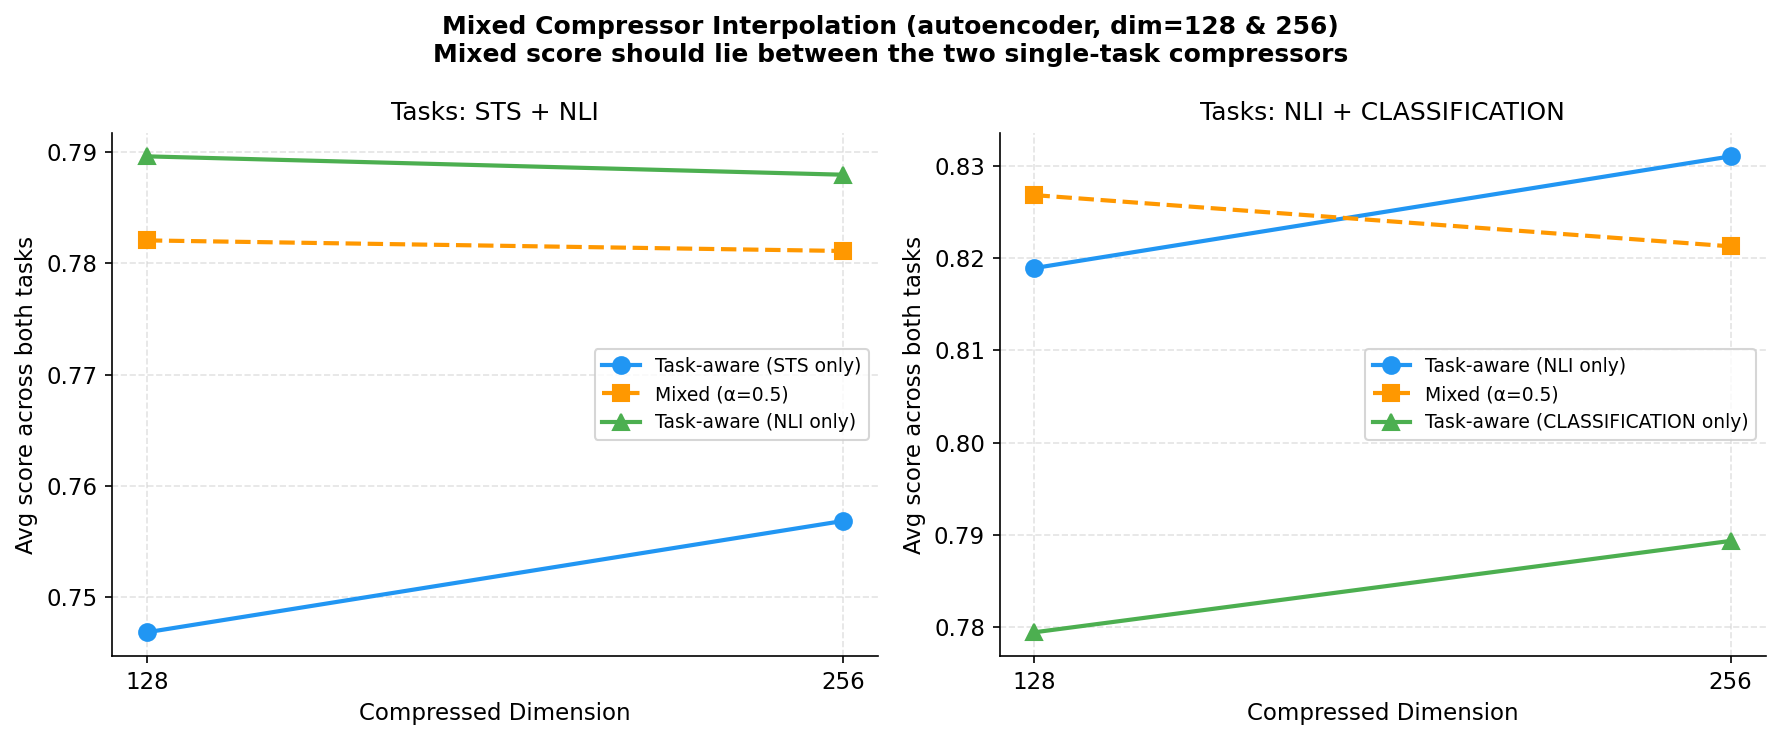
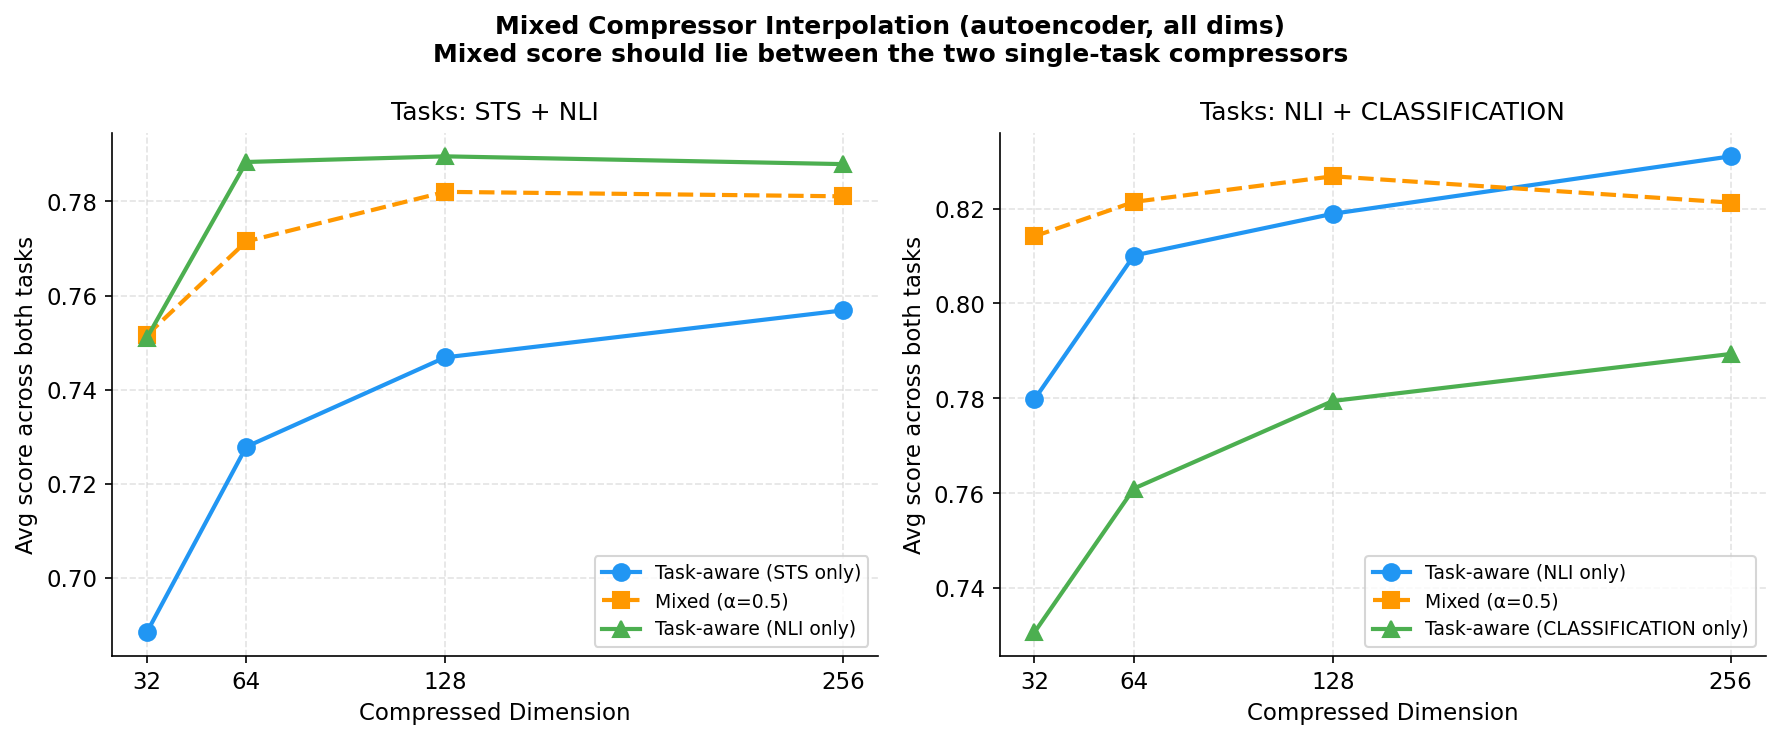
Fix fig9 to show all 4 dims (32,64,128,256) instead of hardcoded 128,256

diff --git a/scripts/plot_results.py b/scripts/plot_results.py
@@ -344,7 +344,7 @@ def plot_mixed_interpolation(df, show=False):
     base = baseline_scores(df)
     pairs = [("sts", "nli"), ("nli", "classification")]
     fig, axes = plt.subplots(1, 2, figsize=(12, 5))
-    fig.suptitle("Mixed Compressor Interpolation (autoencoder, dim=128 & 256)\n"
+    fig.suptitle("Mixed Compressor Interpolation (autoencoder, all dims)\n"
                  "Mixed score should lie between the two single-task compressors",
                  fontsize=12, fontweight="bold")
 
@@ -356,7 +356,7 @@ def plot_mixed_interpolation(df, show=False):
         dims_available = []
         scores_a, scores_b, scores_mix = [], [], []
 
-        for dim in [128, 256]:
+        for dim in DIMS:
             single_a = df[(df["Method"] == "autoencoder") & (df["Mode"] == "task_aware") &
                           (df["TrainTask"] == ta) & (df["Dim"] == dim)]
             single_b = df[(df["Method"] == "autoencoder") & (df["Mode"] == "task_aware") &
@@ -381,7 +381,7 @@ def plot_mixed_interpolation(df, show=False):
         ax.set_title(f"Tasks: {ta.upper()} + {tb.upper()}")
         ax.set_xlabel("Compressed Dimension")
         ax.set_ylabel("Avg score across both tasks")
-        ax.set_xticks([128, 256])
+        ax.set_xticks(dims_available if dims_available else DIMS)
         ax.legend(fontsize=9)
 
     fig.tight_layout()
